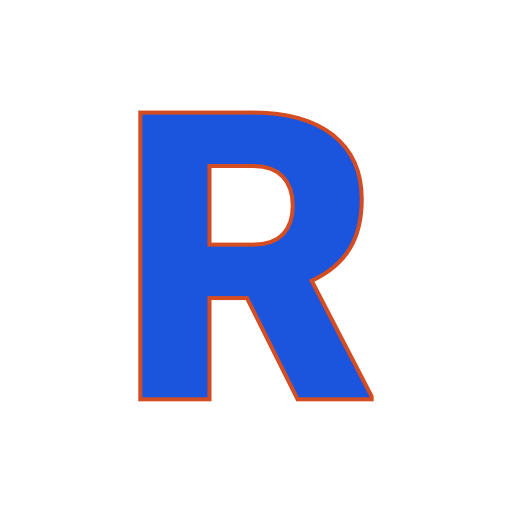
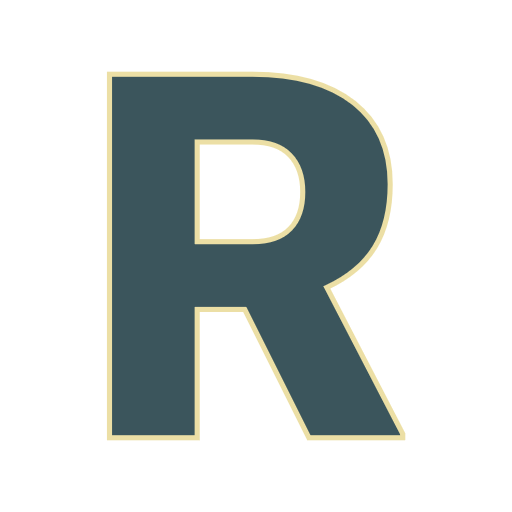
install apk

diff --git a/vite.config.js b/vite.config.js
@@ -7,7 +7,7 @@ import { VitePWA } from 'vite-plugin-pwa'
 export default defineConfig({
   plugins: [react(), tailwindcss(),
     VitePWA({
-      registerType: 'prompt',
+      registerType: 'autoUpdate',
       includeAssets: ['favicon.ico', 'apple-touch-icon.png', 'mask-icon.svg'],
       manifest: {
         name: 'Camera App',
@@ -19,12 +19,12 @@ export default defineConfig({
         start_url: '/',
         icons: [
           {
-            src: '/web-app-manifest-192x192',
+            src: '/web-app-manifest-192x192.png',
             sizes: '192x192',
             type: 'image/png'
           },
           {
-            src: '/web-app-manifest-512x512',
+            src: '/web-app-manifest-512x512.png',
             sizes: '512x512',
             type: 'image/png'
           }

diff --git a/index.html b/index.html
@@ -3,6 +3,7 @@
   <head>
     <meta charset="UTF-8" />
     <link rel="icon" type="image/svg+xml" href="/vite.svg" />
+    <link rel="manifest" href="/manifest.webmanifest" />
     <meta name="viewport" content="width=device-width, initial-scale=1.0" />
     <title>my-project</title>
   </head>
